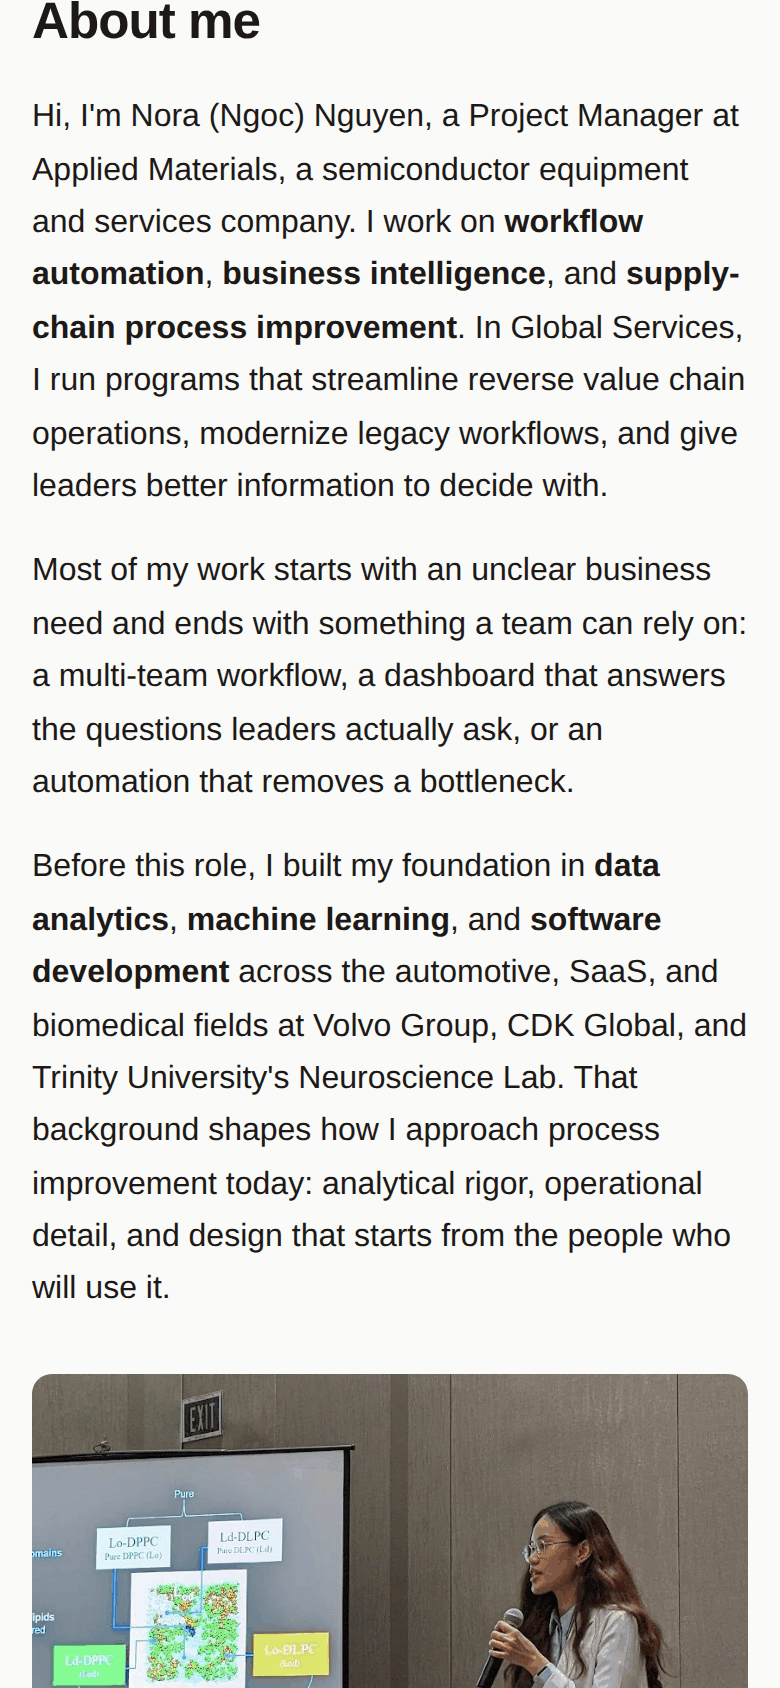
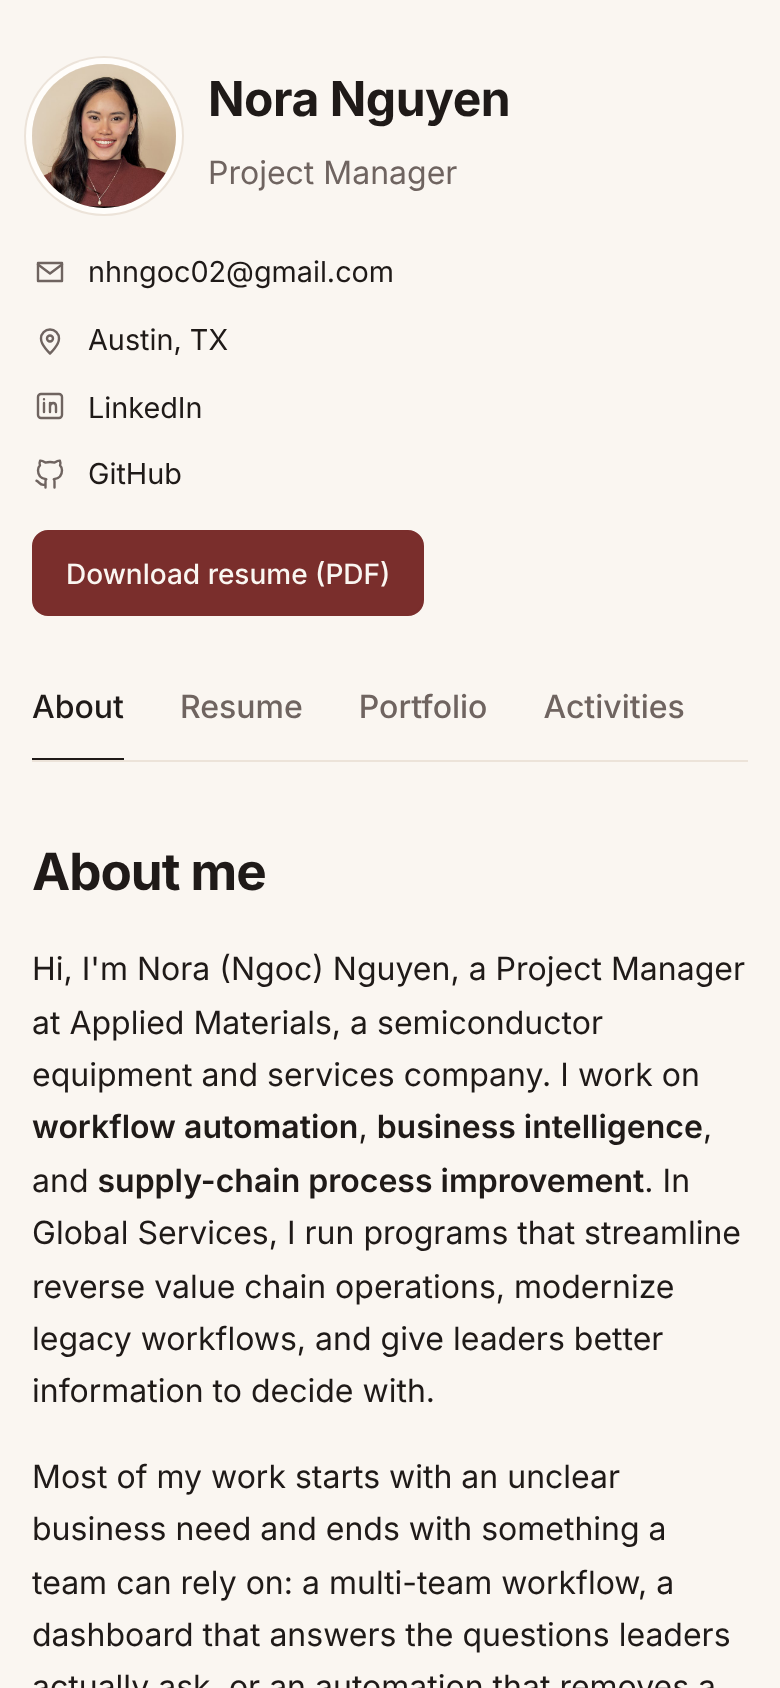
Refresh README screenshots and trim the build notes (#7)
Update the desktop, popup and mobile screenshots to the current site, and remove the build, adding-a-project and running-locally sections.

diff --git a/README.md b/README.md
@@ -18,29 +18,6 @@ I'm a Project Manager at Applied Materials working on workflow automation, busin
   <img src="./website-demo-image/mobile.png" alt="Mobile view" width="30%">
 </p>
 
-## How it's built
-
-A static site with plain HTML, CSS, and JavaScript, hosted on GitHub Pages. No build step.
-
-```
-index.html              page content (About, Resume, Portfolio, Activities)
-assets/css/style.css    styles, including dark mode and mobile layout
-assets/js/projects.js   portfolio project data
-assets/js/script.js     tabs, portfolio filter, and project popup
-assets/images/          photos and project thumbnails
-```
-
-### Adding a project
-
-Add an entry to `assets/js/projects.js`. Set `category` to `"data"` or `"swe"` to choose the tab, and fill in the context, approach, outcome, tools, and links. Thumbnails look best at 16:9 and around 1200px wide.
-
-### Running locally
-
-```bash
-python3 -m http.server 8000
-# then open http://localhost:8000
-```
-
 ## Contact
 
 - LinkedIn: [linkedin.com/in/nhngoc02](https://www.linkedin.com/in/nhngoc02/)
